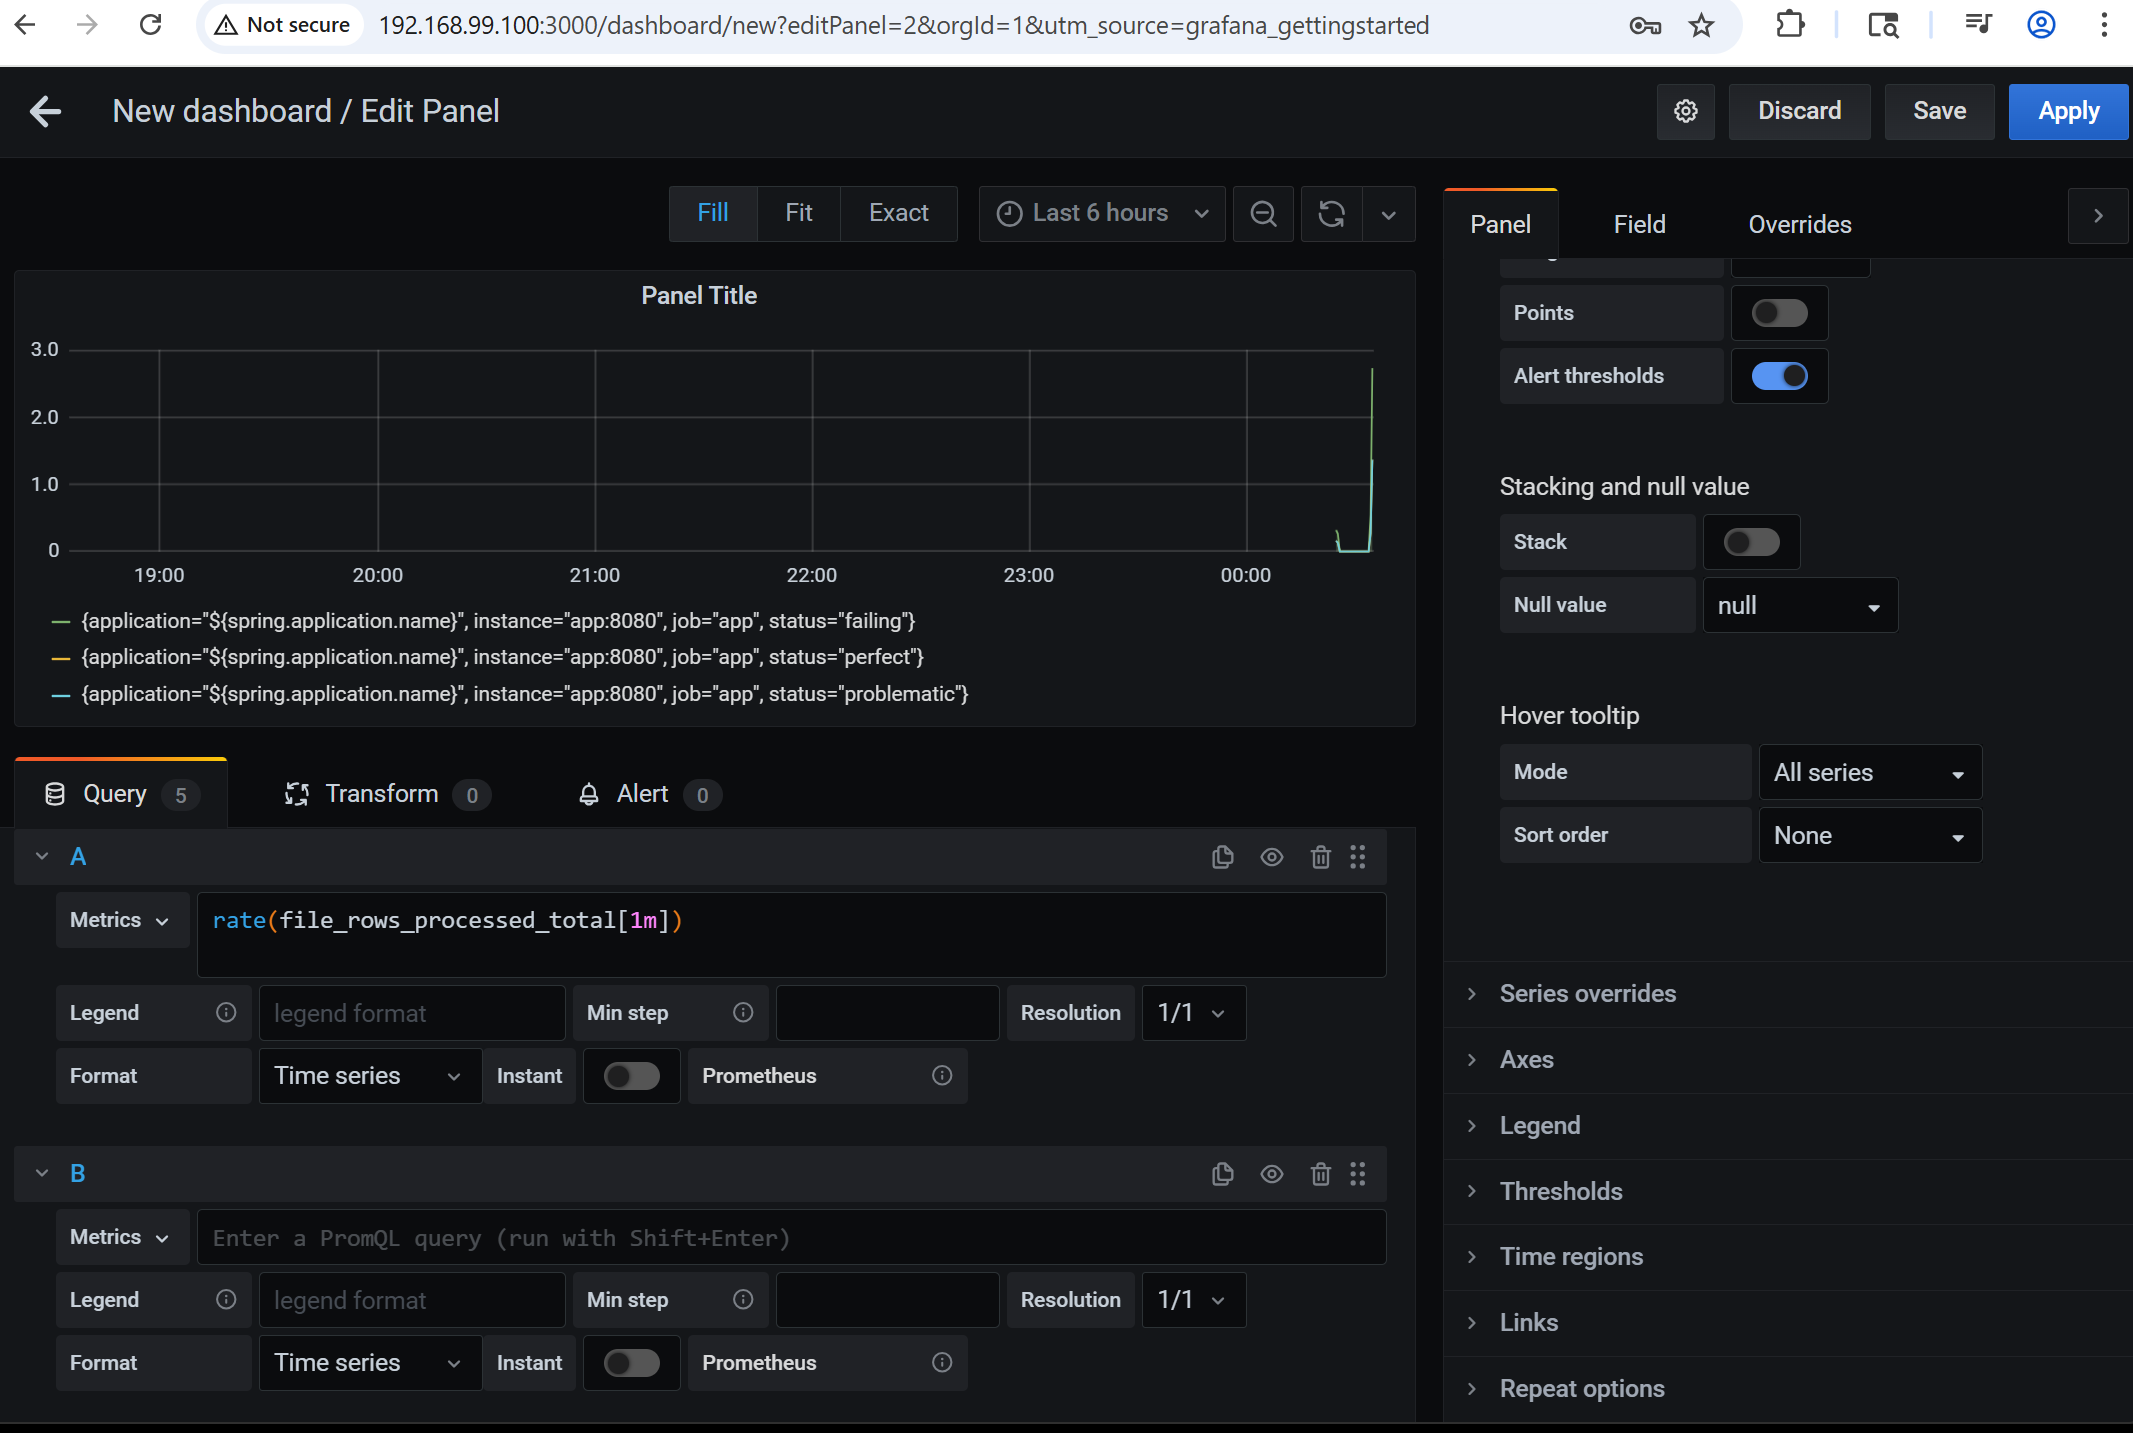
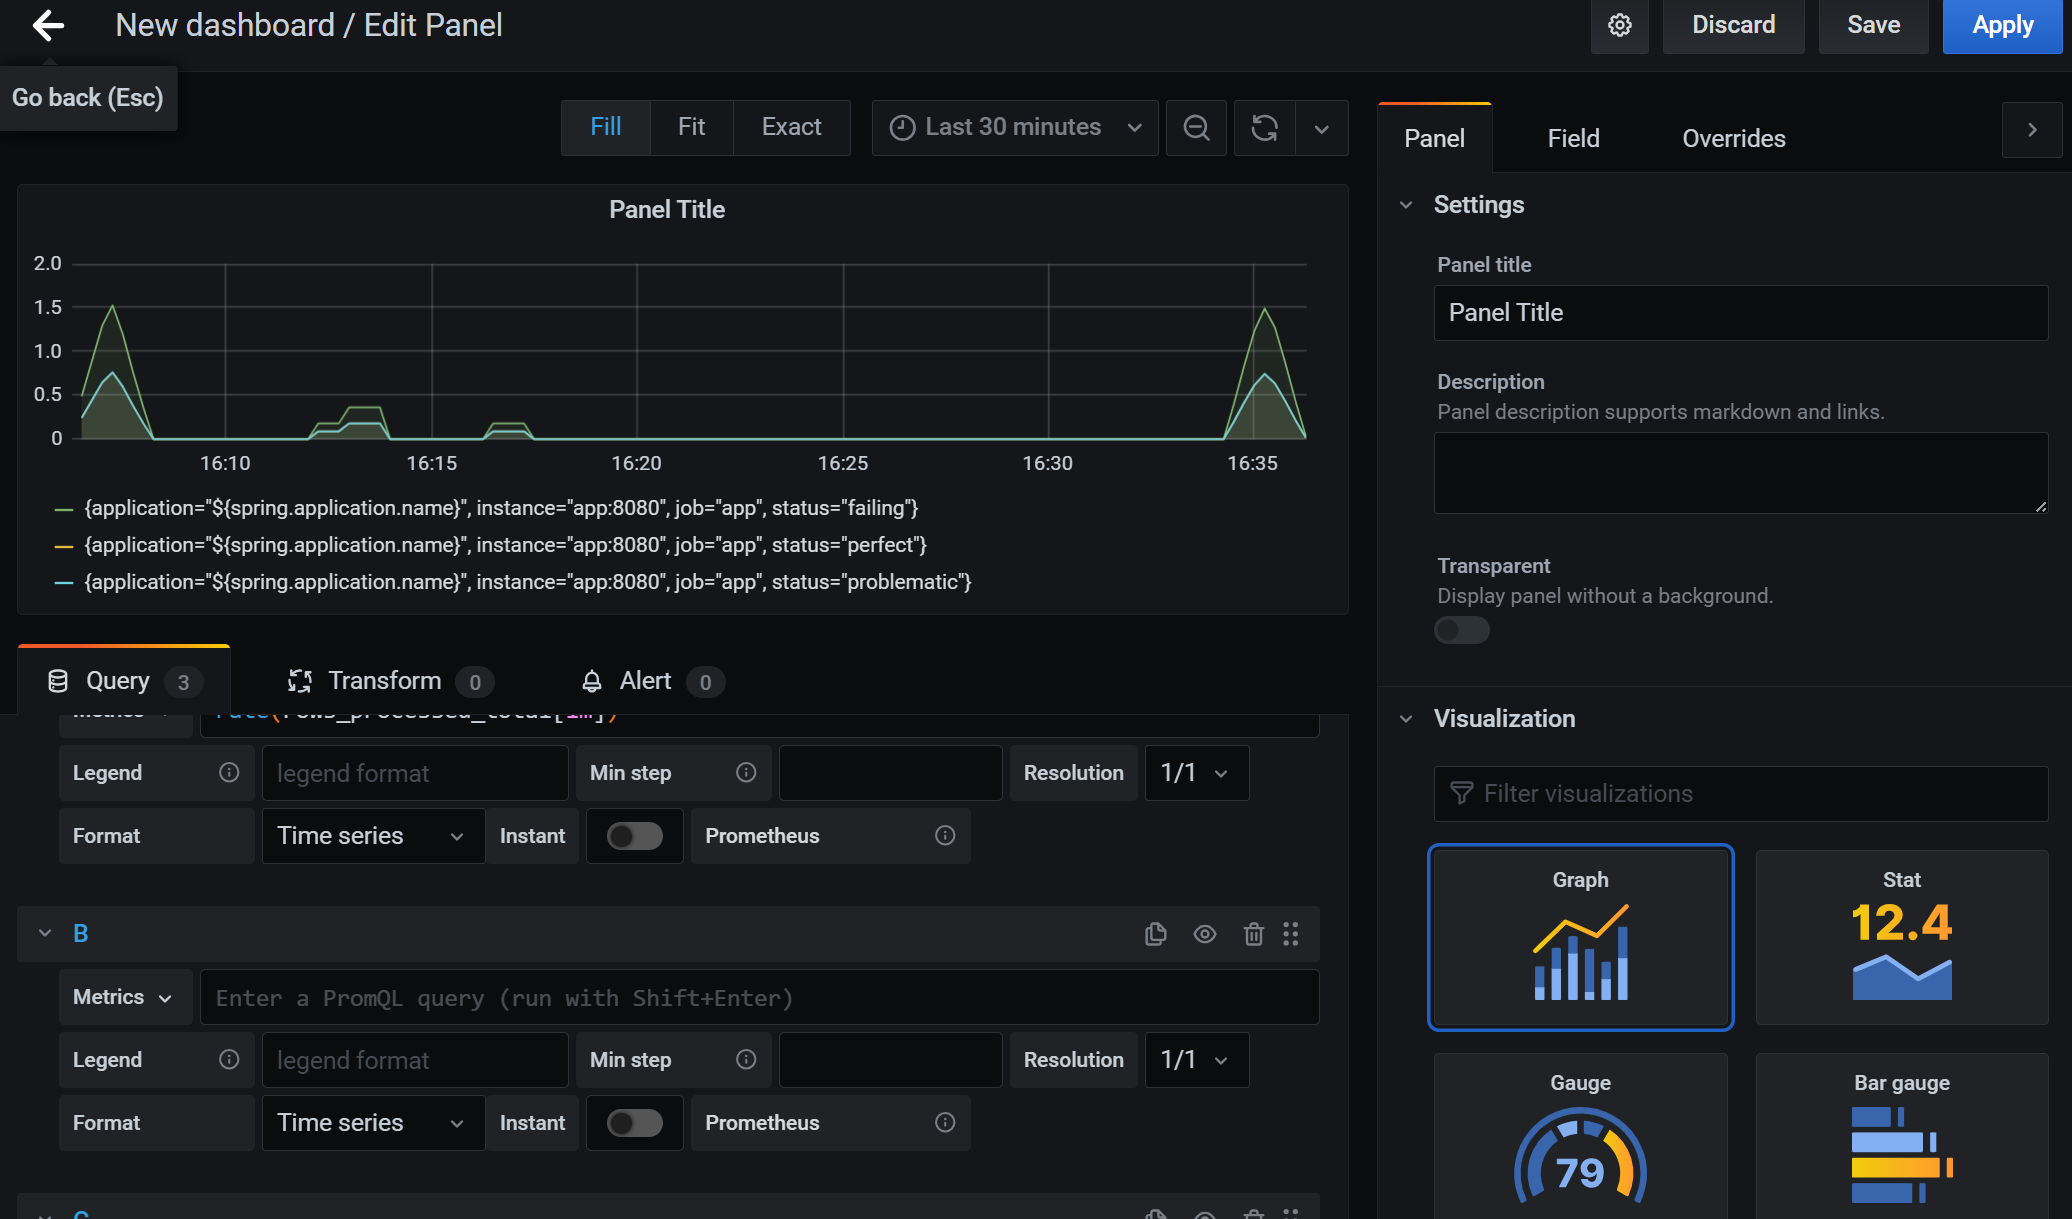
intermediate revision -  cosmetic update

diff --git a/basic-prometheus-counter-labels/app/src/main/java/example/controller/ExampleController.java b/basic-prometheus-counter-labels/app/src/main/java/example/controller/ExampleController.java
@@ -1,70 +1,61 @@
 package example.controller;
+
+import java.util.Arrays;
+
 /**
  * Copyright 2026 Serguei Kouzmine
  */
-
 
 import java.util.List;
 
 import org.springframework.http.MediaType;
 import org.springframework.http.ResponseEntity;
 import org.springframework.web.bind.annotation.GetMapping;
+import org.springframework.web.bind.annotation.PostMapping;
 import org.springframework.web.bind.annotation.RequestMapping;
+import org.springframework.web.bind.annotation.RequestParam;
 import org.springframework.web.bind.annotation.ResponseBody;
 
 import org.springframework.web.bind.annotation.RestController;
+
+import com.sun.el.stream.Optional;
 
 import io.micrometer.core.instrument.Counter;
 import io.micrometer.core.instrument.MeterRegistry;
 import org.springframework.stereotype.Service;
 
-
 @RestController
 public class ExampleController {
 
-    private final MeterRegistry registry;
+	private final MeterRegistry registry;
 
-    public ExampleController(MeterRegistry registry) {
-        this.registry = registry;
-    }
+	public ExampleController(MeterRegistry registry) {
+		this.registry = registry;
+	}
 
-    @GetMapping("/analyze")
-    public String analyze() {
+	@PostMapping("/analyze")
+	public String analyze(@RequestParam(name = "data", required = false) String data) {
 
-        List<String> lines = List.of(
-                "ooooooooooooooo",
-                "ooooooxooooooooo",
-                "ooooxxxxoooxooxoo",
-                ""
-        );
+		List<String> lines = Arrays
+				.asList((data == null) ? new String[] { "ooooooooooooooo", "ooooooxooooooooo", "ooooxxxxoooxooxoo", "" }
+						: data.split("\\n"));
+		for (String line : lines) {
 
-        for (String line : lines) {
+			String status = classify(line);
 
-            String status = classify(line);
+			Counter.builder("rows_processed").description("Rows processed by status").tags("status", status)
+					.register(registry).increment();
+		}
 
-            Counter.builder("file_rows_processed_total")
-                    .description("Rows processed by status")
-                    .tags("status", status)
-                    .register(registry)
-                    .increment();
-        }
+		return "processed " + lines.size() + " rows";
+	}
 
-        return "processed " + lines.size() + " rows";
-    }
+	private String classify(String line) {
+		if (line == null || line.trim().isEmpty()) {
+			return "failing";
+		}
 
-    private String classify(String line) {
-        if (line == null || line.trim().isEmpty()) {
-            return "failing";
-        }
-
-        long errors = line.chars().filter(c -> c == 'x').count();
-
-        if (errors == 0) {
-            return "perfect";
-        } else if (errors < 3) {
-            return "problematic";
-        } else {
-            return "failing";
-        }
-    }
+		long errors = line.chars().filter(c -> c == 'x').count();
+		return (errors == 0) ? "perfect" : (errors < 3) ? "problematic" : "failing";
+	}
 }

diff --git a/basic-prometheus-counter-labels/README.md b/basic-prometheus-counter-labels/README.md
@@ -5,16 +5,15 @@ mvn spring-boot:run
 ```
 
 ```
-for CNT in $(seq 1 1 5) ;  do curl -s http://localhost:8080/analyze > /dev/null; done
+for CNT in $(seq 1 1 5) ; do curl -X POST -H 'Conent-Type: text/plain' -d "oooooooxxxooo\noooooooooxxx\noooxxxxooo" -s http://192.168.99.100:8080/analyze > /dev/null; done
 ```
 Note metrics (`http://localhost:8080/actuator/prometheus`):
 ```text
 # HELP file_rows_processed_total Rows processed by status
 # TYPE file_rows_processed_total counter
-file_rows_processed_total{application="${spring.application.name}",status="failing",} 12.0
-file_rows_processed_total{application="${spring.application.name}",status="problematic",} 6.0
-file_rows_processed_total{application="${spring.application.name}",status="perfect",} 6.0
-
+rows_processed{status="failing",...} 12.0
+rows_processed{status="problematic",...} 6.0
+rows_processed{status="perfect",...} 6.0
 ```
 ### Docker
 ```cmd
@@ -28,43 +27,32 @@ docker-compose up --build -d
 for CNT in $(seq 1 1 5) ;  do curl -s http://192.168.99.100:8080/analyze > /dev/null; done
 
 ```
-
-`https://192.168.99.100:9090`
+* visit Prometheus node `https://192.168.99.100:9090`
 
 ![prometheus](screenshots/counter-prometheus.png)
 
 
+* visit Grafana node, configure data source
+
 ![grafana](screenshots/grafana1.png)
 
+* create dashboard (defauly)
+
 ![grafana](screenshots/grafana2.png)
+
+* choose
 
 ![grafana](screenshots/grafana3.png)
 
 ### Info
-In Grafana you can build:
-A. Pie chart (distribution)
 
-Query:
+In __Grafana__ you can build:
 
-sum by (status) (file_rows_processed_total)
 
-👉 shows:
-
-perfect vs problematic vs failing
-B. Rate over time (pipeline health)
-rate(file_rows_processed_total[1m])
-
-👉 shows how fast issues appear
-
-C. Error ratio (very powerful)
-sum(rate(file_rows_processed_total{status="failing"}[5m]))
-/
-sum(rate(file_rows_processed_total[5m]))
-
-👉 % of failing rows
-
-D. Stacked time series
-sum by (status) (rate(file_rows_processed_total[1m]))
-
-👉 shows trend per category
+-------------------------|-------------------------|-----------|
+Kind                     |Query                    | Usage     |
+Pie chart (distribution) | `sum by (status) (rows_processed)` | perfect vs problematic vs failing |
+Rate over time (pipeline health) | `rate(rows_processed[1m])` | shows how fast issues appear |
+Error ratio (very powerful) | `sum(rate(rows_processed{status="failing"}[5m]))` <br/>`/`<br/> `sum(rate(rows_processed[5m]))` | % of failing rows |
+Stacked time series | `sum by (status) (rate(rows_processed[1m]))` | trend per category |
 
